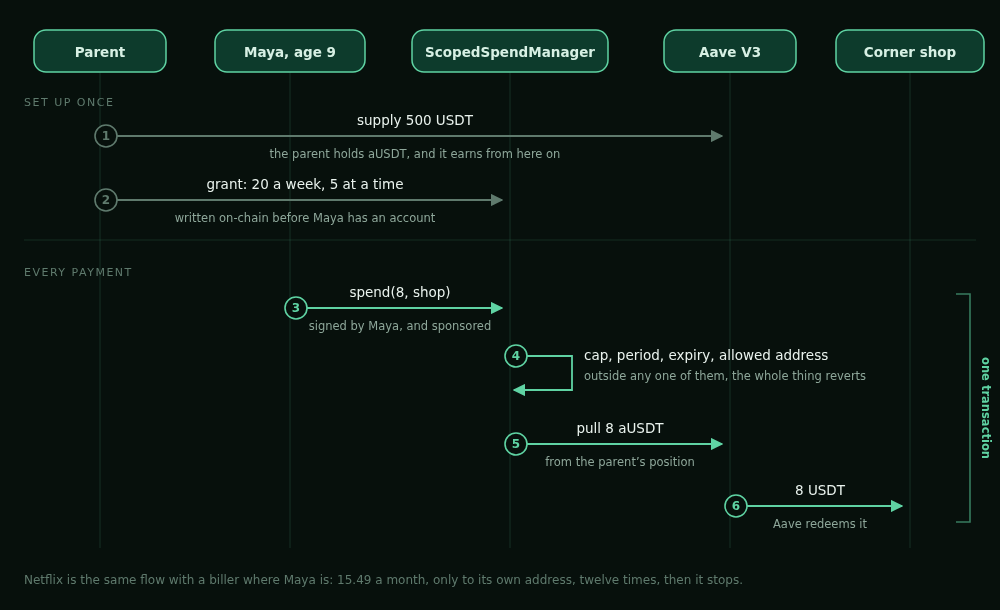
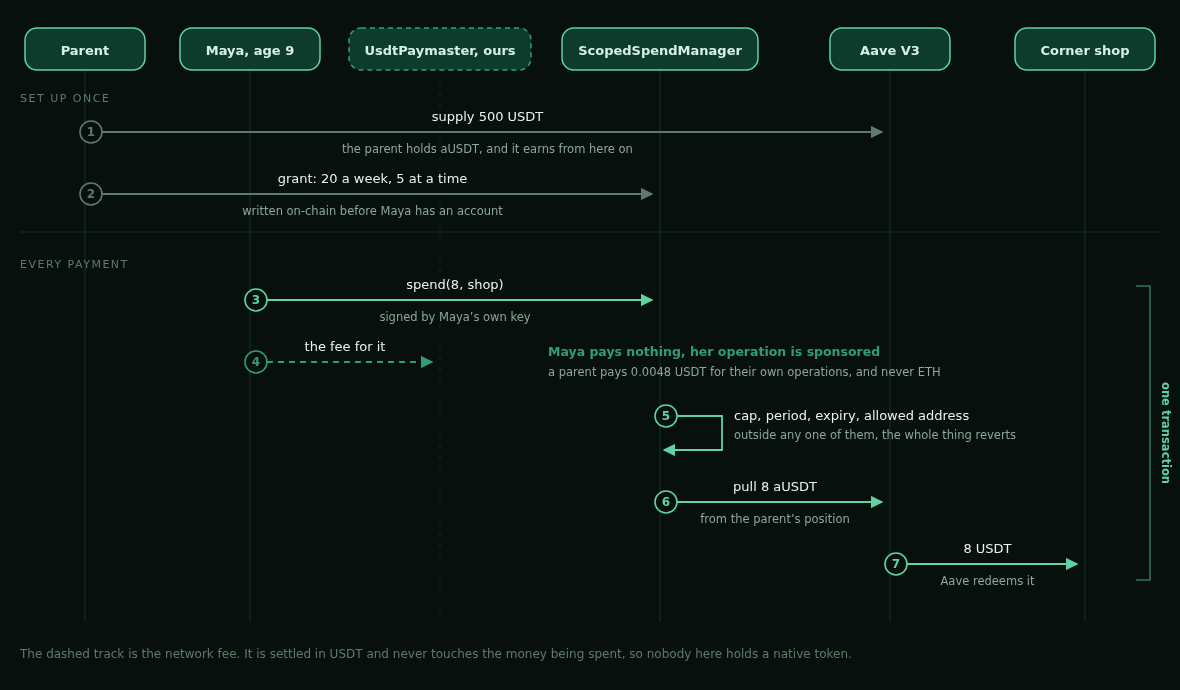
add paymaster to diagram

diff --git a/README.md b/README.md
@@ -23,8 +23,6 @@ Tether WDK Track 2 (gasless), on Base Sepolia.
 
 ## How a payment works
 
-Setup happens once. Everything below the line happens on every payment, and all
-of it is one transaction.
 
 ![How a payment flows](web/public/flow-diagram.png)
 
